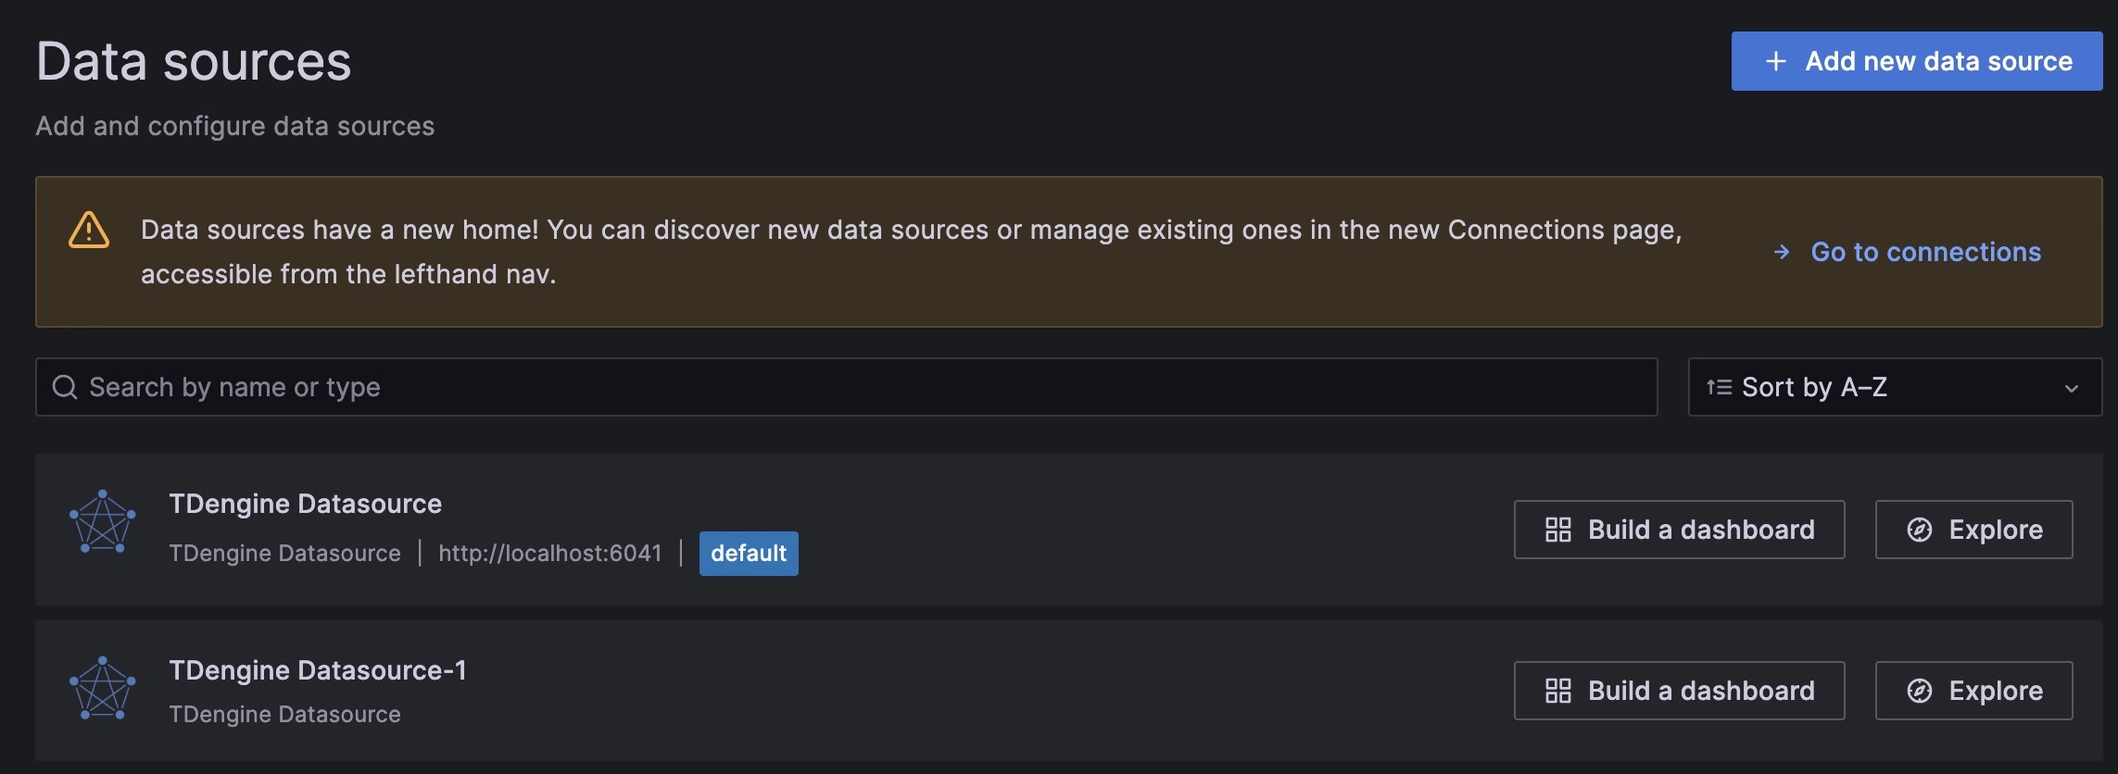
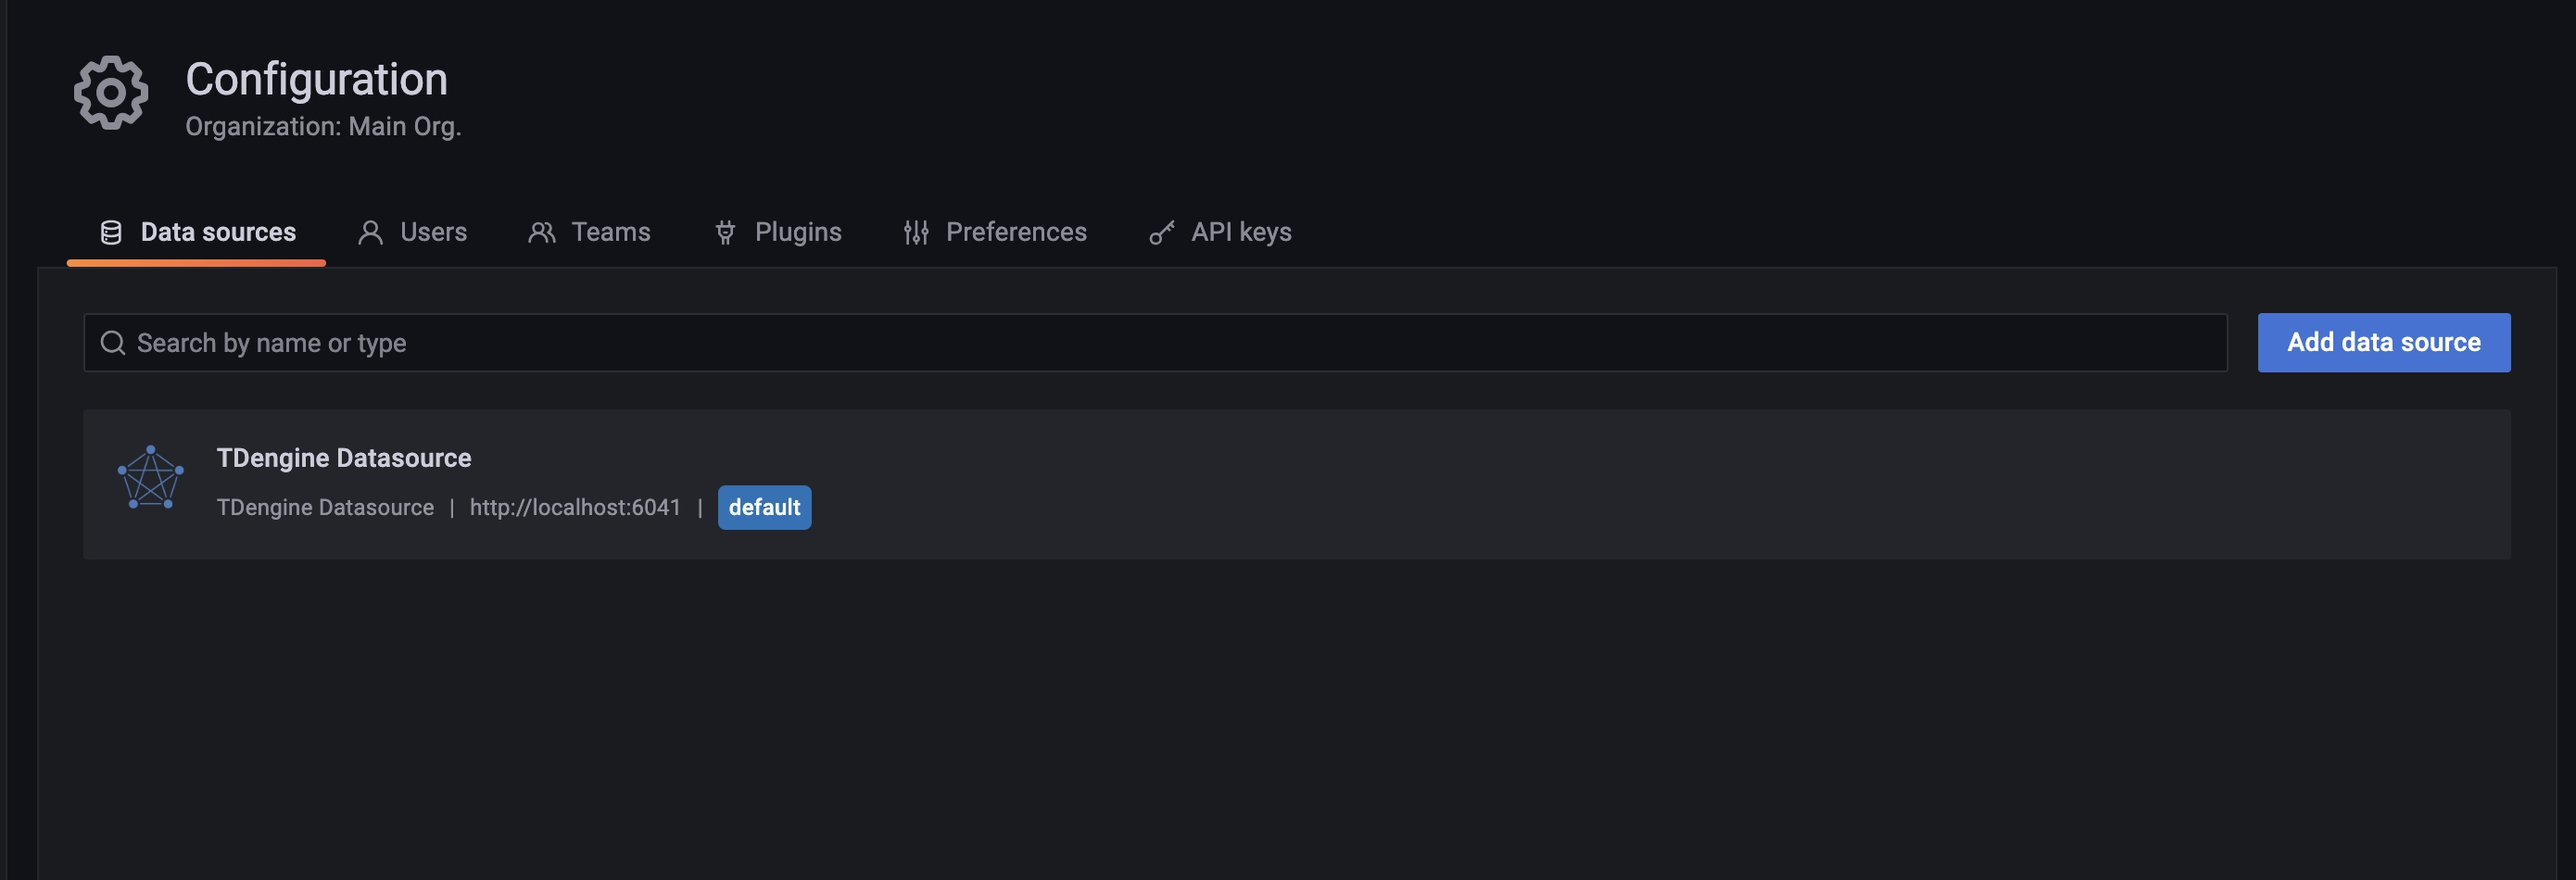
fix: optimize tips and agent ui

diff --git a/src/lang/en.js b/src/lang/en.js
@@ -1167,7 +1167,7 @@ export default {
     value:'Value',
     repeattip:'Cannot enter ts, topic, and qos as new fields ',
     primarytip:'Primary keys only support columns of type timestamp',
-    bothtagsuper:'Tags and super table name must both exist or be empty',
+    bothtagsuper:'Tags and super table name must both exist',
     selectfieldtip:'Please check the Field(Source) with value',
     createsubtbtip:'Select Column(Targte) as template',
     ascolumn: 'As Column',
@@ -1835,18 +1835,18 @@ export default {
     step3:'Start',
     step4:'Check Status',
     step1linux:'Linux',
-    linuxdesc:`Download agent installer package from <a href='https://www.taosdata.com/assets-download/3.0/taosx-agent-latest-linux-x64.tar.gz'>https://www.taosdata.com/assets-download/3.0/taosx-agent-latest-linux-x64.tar.gz</a> and install.`,
+    linuxdesc:`Download agent installer package from <a href='https://www.tdengine.com/assets-download/3.0/taosx-agent-latest-linux-x64.tar.gz'>https://www.tdengine.com/assets-download/3.0/taosx-agent-latest-linux-x64.tar.gz</a> and install.`,
     linuxcode:`cd $TMPDIR
     mkdir agent-installer
     cd agent-installer
-    wget -c https://www.taosdata.com/assets-download/3.0/taosx-agent-latest-linux-x64.tar.gz
+    wget -c https://www.tdengine.com/assets-download/3.0/taosx-agent-latest-linux-x64.tar.gz
     tar xvf taosx-agent-latest-linux-x64.tar.gz
     cd taosx-agent-*
     ./install.sh
     # remove files
     #cd ../../; rm -rf agent-installer`,
   step1window:'Windows',
-  windowdesc:`Download agent installer from <a href='https://www.tdengine.com/assets-download/3.0/taosx-agent-latest-windows-x64-installer.exe'>https://www.taosdata.com/assets-download/3.0/taosx-agent-latest-windows-x64-installer.exe</a>, and run the installer to install the agent service.`,
+  windowdesc:`Download agent installer from <a href='https://www.tdengine.com/assets-download/3.0/taosx-agent-latest-windows-x64-installer.exe'>https://www.tdengine.com/assets-download/3.0/taosx-agent-latest-windows-x64-installer.exe</a>, and run the installer to install the agent service.`,
   step2sub1:'Configuration file path:',
   step2sub2linux:`Configuration file path: <code>/etc/taos/agent.toml</code>`, 
   step2sub2window:`Copy the following lines into configuration file at:<code> C:\\Program Files\\taosX\\config\\agent.toml</code>`,

diff --git a/src/views/3_dataIn/components/agentDoc.vue b/src/views/3_dataIn/components/agentDoc.vue
@@ -8,7 +8,17 @@
           <pre
             class="agent-code"
             style="padding-top: 0px"
-          ><code class="language-bash">
+          ><code class="language-bash" v-if="language.includes('en')">
+tmpdir=`mktemp -d`
+cd  $tmpdir
+mkdir agent-installer
+cd agent-installer
+wget -c https://www.tdengine.com/assets-download/3.0/taosx-agent-latest-linux-x64.tar.gz
+tar xvf taosx-agent-latest-linux-x64.tar.gz
+cd taosx-agent-*
+./install.sh
+# remove files
+#cd ../../; rm -rf $tmpdir</code><code class="language-bash" v-else>
 tmpdir=`mktemp -d`
 cd  $tmpdir
 mkdir agent-installer
@@ -52,8 +62,8 @@ cd taosx-agent-*
         show-icons
       >
       </el-alert> -->
-      <pre v-highlight><code>endpoint = {{endpoint}}</code>
-<code>token = {{token}}</code>
+      <pre v-highlight><code style="padding:0px;">endpoint = "{{endpoint}}"
+token = "{{token}}"</code>
 </pre>
       <!-- <p>{{ $t("taosagents.step2sub4") }}</p> -->
     </section>
@@ -73,7 +83,7 @@ cd taosx-agent-*
       </el-tabs>
     </section>
     <h1>4. {{ $t("taosagents.step4") }}</h1>
-    <section style="margin-top:5px;">
+    <section style="margin-top: 5px">
       <p>{{ $t("taosagents.step4sub1") }}</p>
     </section>
   </div>
@@ -93,6 +103,7 @@ export default {
   },
   data() {
     return {
+      language: window.navigator.language,
       activeTab: "tab1",
       endpoint: localStorage.getItem("local_endpoint"),
     };
@@ -103,13 +114,14 @@ export default {
   methods: {
     copyCode(val) {
       let text = document.querySelector(`.${val}`);
+      console.log(text,'赋值的值');
       copy(text.children[0].innerText);
     },
   },
 };
 </script>
 <style lang="scss" scoped>
-section{
+section {
   margin-bottom: 10px;
 }
 h1 {
@@ -168,5 +180,8 @@ p {
 }
 .agent-doc {
   padding: 15px;
+}
+p {
+  word-break: break-all;
 }
 </style>

diff --git a/src/lang/zh.js b/src/lang/zh.js
@@ -28,7 +28,7 @@ export default {
   change: "修改",
   copySucc: "复制成功",
   nickname: "昵称",
-  copyagent:'Agent使用介绍',
+  copyagent:'Agent安装步骤',
   copyagentWaring:'确保现在复制您的代理 token。不能进行再次查看',
   back: "返回",
   date: "日期",
@@ -942,7 +942,7 @@ export default {
     value:'值',
     repeattip:'不能输入ts,topic,qos作为新字段',
     primarytip:'主键只支持类型是timestamp的列',
-    bothtagsuper:'Tags和超级表名必须同时存在或者同时为空',
+    bothtagsuper:'Tags和超级表名必须同时存在',
     selectfieldtip:'请选择有值的字段(来源)',
     createsubtbtip:'选择列(目标)作为模板',
     ascolumn: '作为列',

diff --git a/src/utils/validate.js b/src/utils/validate.js
@@ -121,9 +121,11 @@ export function validDir(arg) {
 
 //linux文件路径校验
 export function validPath(arg) {
-  if((String.raw`${arg}`).includes('\\')){
+  if((String.raw`${arg}`).includes('\\')){//windows路径
     arg=(String.raw`${arg}`).replace(/\\/g,'\\\\')
+    return /^[a-zA-Z]:(\/|\\)[A-Za-z0-9_\(/|\\)]*$/g.test(arg)
+  }else{
+    return /^(\/|\\)[A-Za-z0-9_\(/|\\)]*$/g.test(arg)
   }
-  console.log(arg,'文件路径',(String.raw`${arg}`).replace(/\\/g,'\\\\'));
-  return /^[a-zA-Z]:(\/|\\)[A-Za-z0-9_\(/|\\)]*$/g.test(arg)
+  
 }
